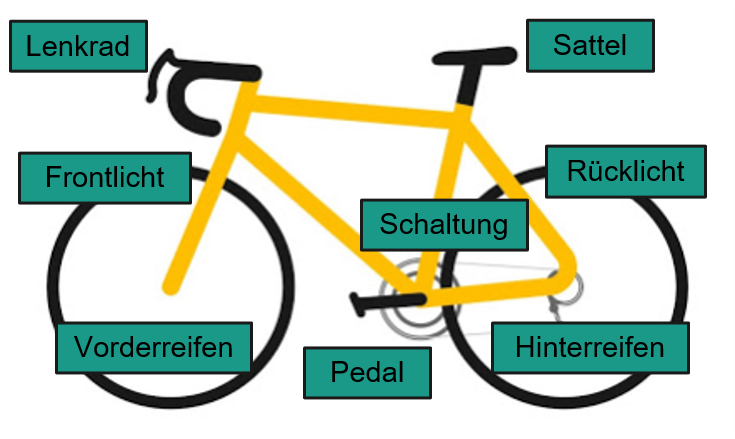
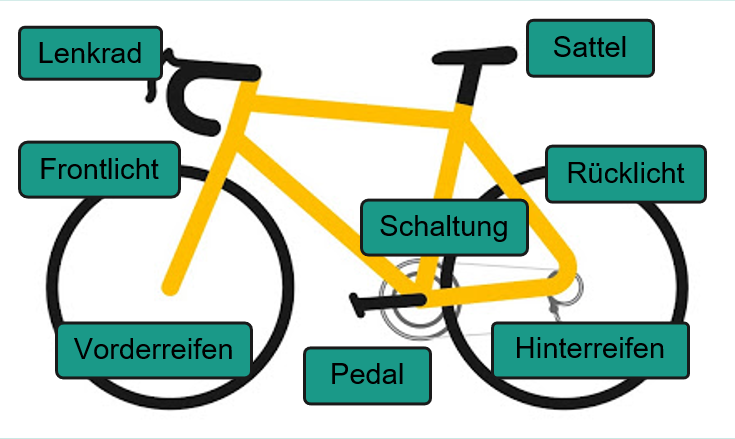
round off text fields in the image

diff --git a/fume/src/customer/my_bike.js b/fume/src/customer/my_bike.js
@@ -67,14 +67,14 @@ function my_bike() {
       <div>
         <img usemap="#bike" src={bike} width="735" height="439" alt="Fahrrad"></img>
         <map name ="bike">
-          <area id = "Vorderreifen" shape="rectangle" coords="57,324,251,371"  alt="Vorderreifen"></area>
-          <area id = "Frontlicht" shape="rectangle" coords="20,152,189,202"  alt="Vorderlicht"></area>
-          <area id = "Pedale" shape="rectangle" coords="305,347,430,397"  alt="Pedale"></area>
-          <area id = "Lenkrad" shape="rectangle" coords="10,21,146,69"  alt="Lenkrad"></area>
-          <area id = "Sattel" shape="rectangle" coords="528,20,655,71"  alt="Sattel"></area>
-          <area id = "Schaltung" shape="rectangle" coords="361,199,528,249"  alt="Schaltung"></area>
-          <area id = "Rücklicht" shape="rectangle" coords="545,146,706,197"  alt="Rücklicht"></area>
-          <area id = "Hinterreifen" shape="rectangle" coords="493,322,689,372"  alt="Hinterreifen"></area>
+          <area id = "Vorderreifen" shape="rectangle" coords="57,325,251,376"  alt="Vorderreifen"></area>
+          <area id = "Frontlicht" shape="rectangle" coords="21,144,178,195"  alt="Vorderlicht"></area>
+          <area id = "Pedal" shape="rectangle" coords="305,349,431,402"  alt="Pedal"></area>
+          <area id = "Lenkrad" shape="rectangle" coords="19,28,162,77"  alt="Lenkrad"></area>
+          <area id = "Sattel" shape="rectangle" coords="527,21,653,75"  alt="Sattel"></area>
+          <area id = "Schaltung" shape="rectangle" coords="361,201,526,253"  alt="Schaltung"></area>
+          <area id = "Rücklicht" shape="rectangle" coords="546,148,706,201"  alt="Rücklicht"></area>
+          <area id = "Hinterreifen" shape="rectangle" coords="493,324,689,377"  alt="Hinterreifen"></area>
         </map>
 
       </div>        
